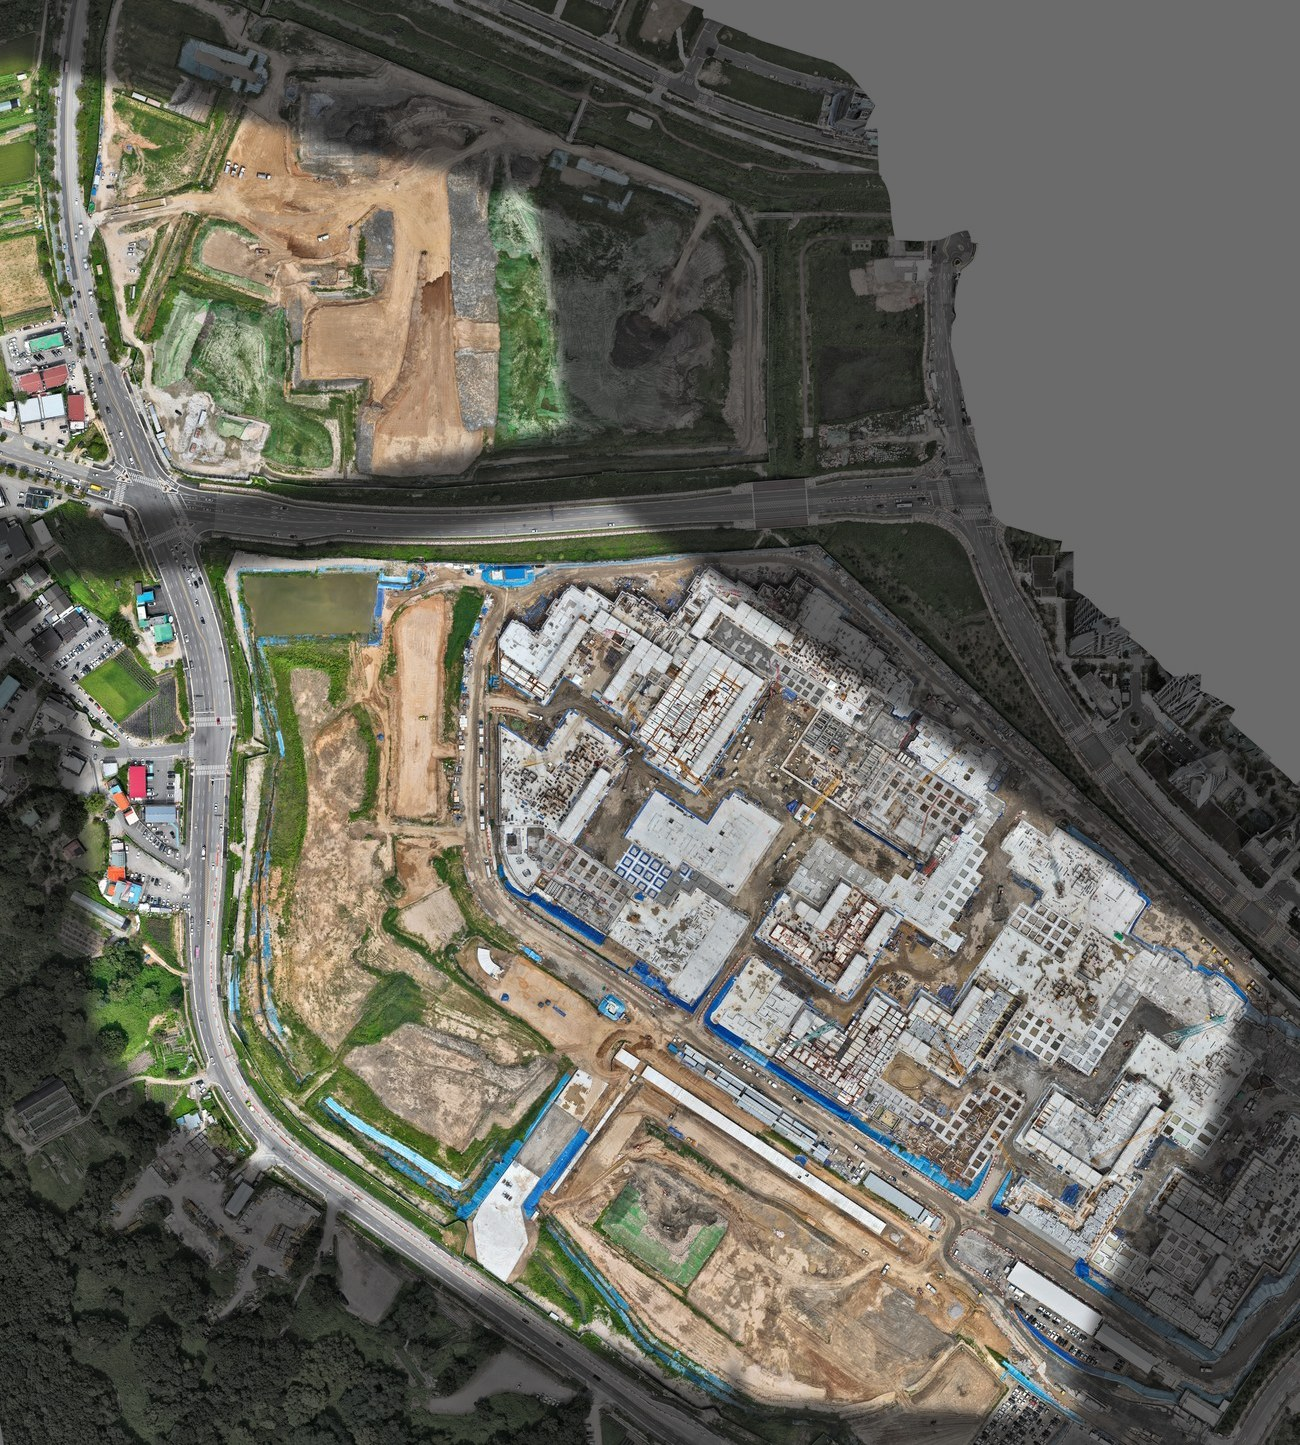
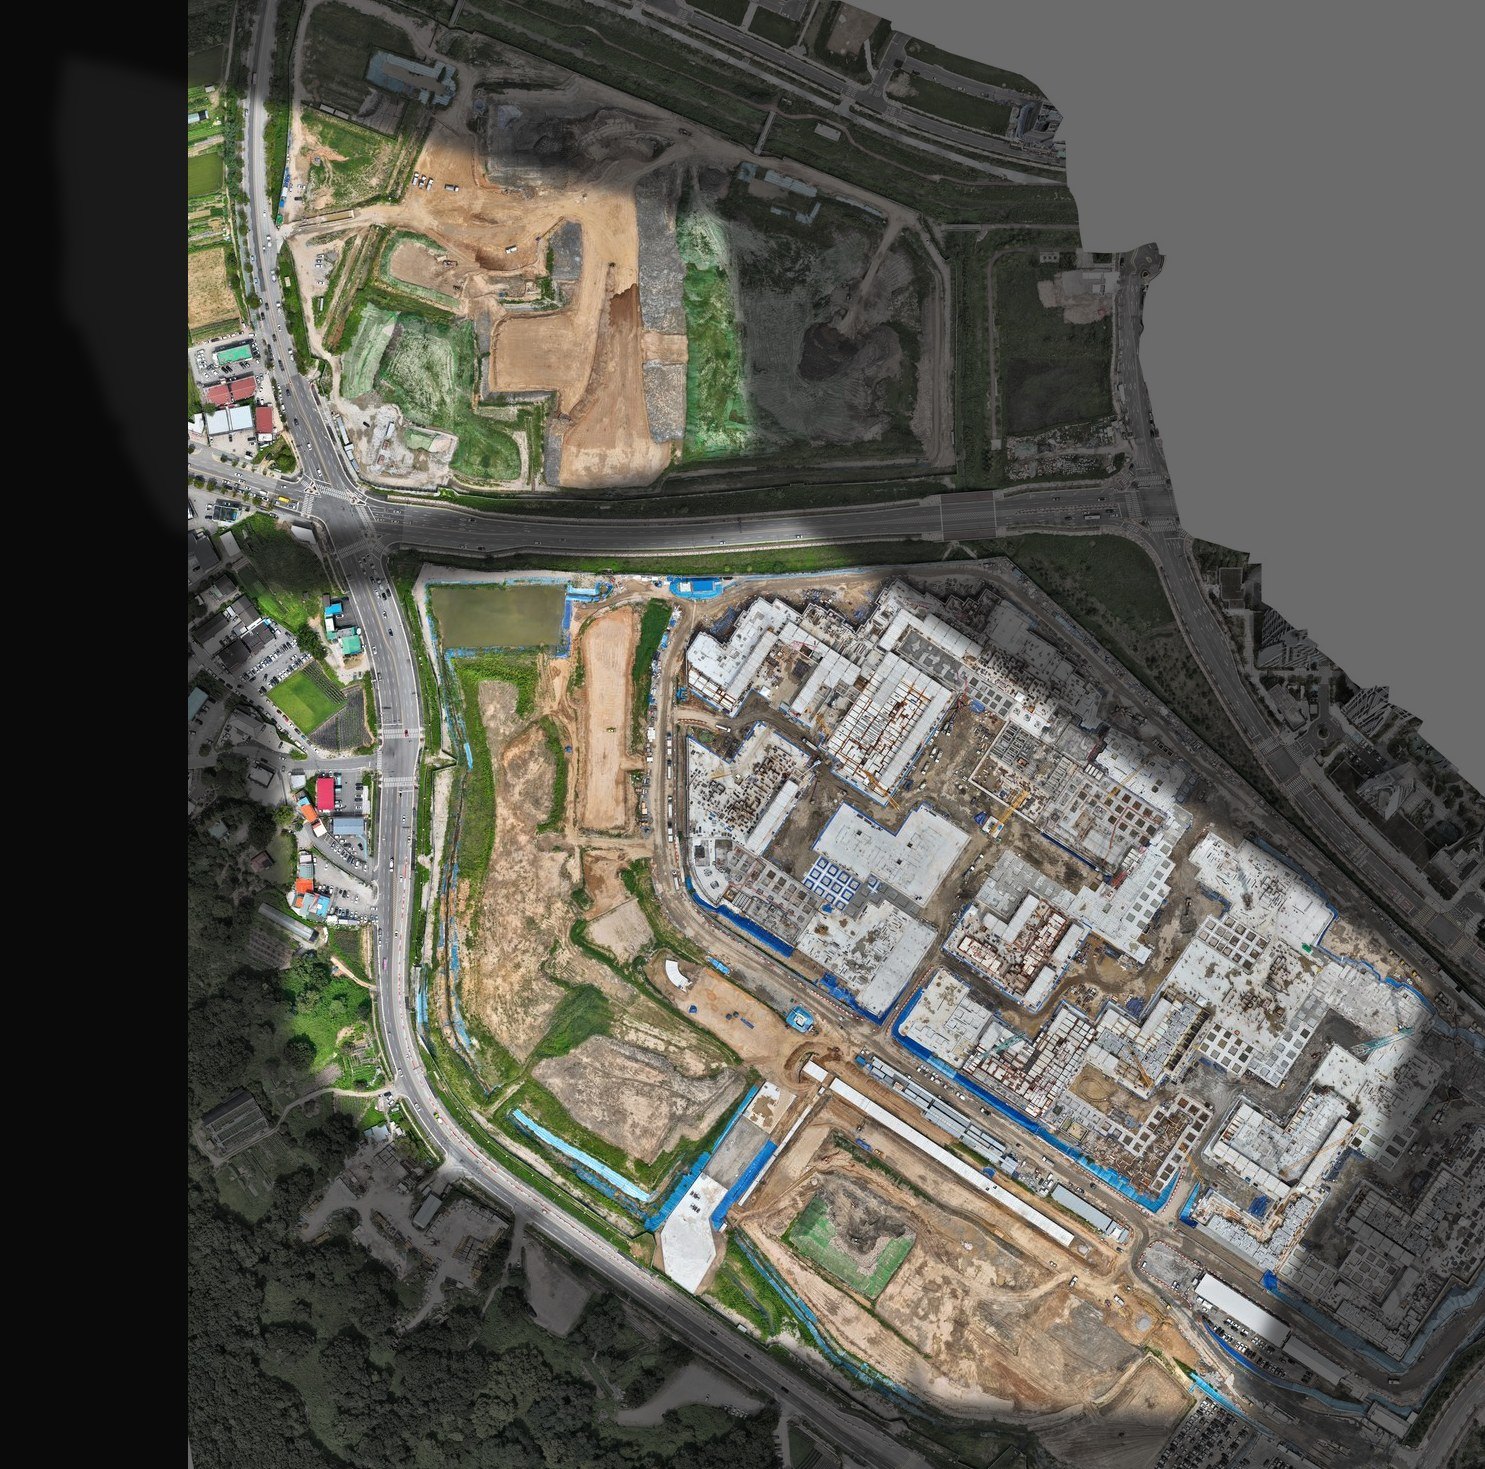
축척 보정(1.45 px/m) + 획지가 사진 밖으로 나가지 않도록 여백 추가

diff --git a/field.config.js b/field.config.js
@@ -48,42 +48,42 @@ window.FIELD = {
     // 획지 경계 — 설계도면 DXF 의 '블럭 테두리/시설선' 을 전경사진에 정렬해 뽑은 값입니다.
     // poly = 사진 가로·세로를 0~1 로 본 비율 좌표. at = 이름표 위치.
     zones: [
-    { name:"공동주택1", seg:"1구간", area:45328, at:[0.2834,0.221],
-      poly:[[0.1504,0.0747],[0.3635,0.125],[0.37,0.1319],[0.3836,0.1344],[0.3944,0.1325],[0.3971,0.1358],[0.411,0.134],[0.4163,0.1663],[0.3983,0.162],[0.4196,0.2981],[0.3617,0.311],[0.1853,0.3419],[0.1713,0.2337],[0.1642,0.219],[0.1508,0.1145],[0.1482,0.0817]] },
-    { name:"의료시설", seg:"1구간", area:39984, at:[-0.0098,0.212],
-      poly:[[-0.0342,0.3323],[-0.057,0.2894],[-0.0572,0.2758],[-0.0637,0.2756],[-0.0905,0.2077],[-0.0995,0.2081],[-0.106,0.1854],[-0.1028,0.148],[-0.1102,0.0699],[-0.106,0.0414],[-0.001,0.0662],[0.0203,0.075],[0.0652,0.1027],[0.0972,0.3529],[-0.0037,0.3566],[-0.0241,0.3461]] },
-    { name:"수변공원1", seg:"1구간", area:6155, at:[0.0344,0.0557],
-      poly:[[0.1067,0.0984],[0.0652,0.1027],[0.0203,0.075],[-0.001,0.0662],[-0.106,0.0414],[-0.1024,0.0187],[-0.0012,0.0414],[0.0,0.0454],[0.0051,0.0466],[0.0068,0.041],[0.0122,0.042],[0.1339,0.0707],[0.1316,0.0782],[0.125,0.0853]] },
-    { name:"준주거2", seg:"1구간", area:3853, at:[0.1015,0.3018],
-      poly:[[0.0857,0.2632],[0.1274,0.2589],[0.1364,0.2653],[0.1466,0.3455],[0.1443,0.3481],[0.0972,0.3529]] },
-    { name:"주차장1", seg:"1구간", area:3472, at:[0.0939,0.1918],
-      poly:[[0.1285,0.1638],[0.137,0.23],[0.1299,0.238],[0.0831,0.2429],[0.0737,0.1695]] },
-    { name:"준주거1", seg:"1구간", area:2395, at:[0.0869,0.1413],
-      poly:[[0.0671,0.1179],[0.1095,0.1135],[0.1233,0.1234],[0.1285,0.1638],[0.0737,0.1695]] },
-    { name:"공동주택2", seg:"2구간", area:156460, at:[0.5774,0.6057],
-      poly:[[0.8379,0.857],[0.2836,0.6109],[0.2712,0.6026],[0.2616,0.5918],[0.2533,0.571],[0.2258,0.3885],[0.4451,0.3518],[0.9461,0.6782],[0.8909,0.7794],[0.8582,0.82]] },
-    { name:"혁신의료연구단지", seg:"2구간", area:54486, at:[0.1445,0.6904],
-      poly:[[0.1869,0.5794],[0.2214,0.6433],[0.231,0.6514],[0.312,0.6911],[0.3229,0.6993],[0.3625,0.7169],[0.366,0.7266],[0.2955,0.844],[0.2704,0.8282],[0.1518,0.7715],[0.08,0.6736],[0.0727,0.5973],[0.0691,0.5928],[0.063,0.5454],[0.0644,0.536],[0.0814,0.5333],[0.0813,0.5302],[0.0644,0.5274],[0.0686,0.5254],[0.0574,0.4808],[0.0313,0.4246],[0.0312,0.4173],[0.0223,0.4186],[0.0136,0.4016],[0.0197,0.3988],[0.0837,0.4016],[0.1128,0.395],[0.153,0.3933],[0.1557,0.3953],[0.1615,0.4359],[0.1667,0.4478]] },
-    { name:"바이오융합복합단지", seg:"2구간", area:31207, at:[0.5587,0.889],
-      poly:[[0.3685,0.895],[0.3202,0.872],[0.3147,0.8551],[0.427,0.9081],[0.5039,0.7762],[0.7235,0.8737],[0.669,0.9731],[0.5774,0.9661],[0.5696,0.9525],[0.5677,0.9434],[0.5642,0.9416],[0.5588,0.9488],[0.5595,0.9634],[0.5554,0.9644],[0.5168,0.9535],[0.5175,0.9491],[0.4785,0.9359],[0.4729,0.9305],[0.4681,0.933],[0.4556,0.9316],[0.3757,0.8924]] },
-    { name:"근린공원2", seg:"2구간", area:14930, at:[0.6573,0.8036],
-      poly:[[0.4239,0.6732],[0.8379,0.857],[0.8625,0.8679],[0.8463,0.9008],[0.4643,0.7313],[0.4535,0.723],[0.4139,0.7054],[0.4104,0.6957]] },
-    { name:"초등학교", seg:"2구간", area:13000, at:[0.395,0.8105],
-      poly:[[0.4835,0.7671],[0.4068,0.8986],[0.3147,0.8551],[0.3882,0.7328],[0.399,0.7297]] },
-    { name:"근린공원1", seg:"2구간", area:12288, at:[0.3128,0.6529],
-      poly:[[0.1902,0.3961],[0.1945,0.3911],[0.2258,0.3885],[0.2533,0.571],[0.2616,0.5918],[0.2712,0.6026],[0.2836,0.6109],[0.4035,0.6642],[0.3938,0.6737],[0.3852,0.6882],[0.3743,0.6913],[0.2903,0.654],[0.2481,0.6323],[0.2397,0.625],[0.2139,0.576],[0.1938,0.4449],[0.1954,0.4321]] },
-    { name:"경관녹지3-2", seg:"2구간", area:6615, at:[0.934,0.7201],
-      poly:[[0.9274,0.7735],[0.9011,0.7611],[0.9461,0.6782],[0.6687,0.4975],[0.6816,0.4863],[0.9691,0.6744],[0.9617,0.6863],[0.9376,0.7456],[0.9313,0.7722]] },
-    { name:"근린공원3", seg:"2구간", area:4420, at:[0.7698,0.9575],
-      poly:[[0.8297,0.9643],[0.823,0.9786],[0.8156,0.978],[0.8144,0.9713],[0.8086,0.9688],[0.8005,0.9778],[0.7958,0.9781],[0.694,0.9732],[0.7185,0.9285],[0.7797,0.9557],[0.8049,0.9098],[0.8362,0.9237],[0.8204,0.9605]] },
-    { name:"경관녹지2", seg:"2구간", area:3322, at:[0.5614,0.4139],
-      poly:[[0.6631,0.4738],[0.6499,0.4852],[0.4451,0.3518],[0.4684,0.3479]] },
-    { name:"주차장2", seg:"2구간", area:3000, at:[0.7527,0.9259],
-      poly:[[0.7437,0.8826],[0.8049,0.9098],[0.7797,0.9557],[0.7185,0.9285]] },
-    { name:"경관녹지", seg:"2구간", area:2904, at:[0.4459,0.8349],
-      poly:[[0.5039,0.7762],[0.427,0.9081],[0.4068,0.8986],[0.4835,0.7671]] },
-    { name:"경관녹지4", seg:"2구간", area:2461, at:[0.8712,0.8414],
-      poly:[[0.921,0.7936],[0.9166,0.8033],[0.9048,0.816],[0.878,0.8392],[0.8625,0.8679],[0.8379,0.857],[0.8582,0.82],[0.8908,0.7795]] }
+    { name:"공동주택1", seg:"1구간", area:45328, at:[0.3753,0.2327],
+      poly:[[0.2612,0.0916],[0.444,0.1401],[0.4496,0.1467],[0.4612,0.1491],[0.4705,0.1473],[0.4728,0.1505],[0.4847,0.1488],[0.4893,0.1799],[0.4739,0.1758],[0.4921,0.307],[0.442,0.3196],[0.291,0.3491],[0.2791,0.2449],[0.273,0.2308],[0.2615,0.13],[0.2593,0.0984]] },
+    { name:"의료시설", seg:"1구간", area:39984, at:[0.1237,0.224],
+      poly:[[0.1115,0.3533],[0.0832,0.2987],[0.0831,0.2855],[0.0775,0.2853],[0.0545,0.2199],[0.0467,0.2203],[0.0412,0.1984],[0.0439,0.1624],[0.0376,0.087],[0.0412,0.0595],[0.1313,0.0835],[0.1496,0.0919],[0.188,0.1186],[0.2156,0.3598],[0.129,0.3634]] },
+    { name:"수변공원1", seg:"1구간", area:6155, at:[0.1616,0.0733],
+      poly:[[0.2237,0.1145],[0.188,0.1186],[0.1496,0.0919],[0.1313,0.0835],[0.0412,0.0595],[0.0443,0.0377],[0.1311,0.0596],[0.1322,0.0634],[0.1365,0.0646],[0.1379,0.0591],[0.1426,0.0601],[0.247,0.0878],[0.245,0.095],[0.2393,0.1018]] },
+    { name:"준주거2", seg:"1구간", area:3853, at:[0.2192,0.3106],
+      poly:[[0.2057,0.2734],[0.2415,0.2692],[0.2491,0.2754],[0.258,0.3527],[0.2559,0.3552],[0.2156,0.3598]] },
+    { name:"주차장1", seg:"1구간", area:3472, at:[0.2127,0.2045],
+      poly:[[0.2424,0.1775],[0.2497,0.2414],[0.2436,0.2491],[0.2035,0.2538],[0.1954,0.183]] },
+    { name:"준주거1", seg:"1구간", area:2395, at:[0.2067,0.1558],
+      poly:[[0.1897,0.1333],[0.226,0.1291],[0.2379,0.1386],[0.2424,0.1775],[0.1954,0.183]] },
+    { name:"공동주택2", seg:"2구간", area:156460, at:[0.6276,0.6035],
+      poly:[[0.8511,0.8458],[0.3755,0.6085],[0.3648,0.6006],[0.3566,0.5901],[0.3495,0.5701],[0.3259,0.3942],[0.514,0.3587],[0.9439,0.6734],[0.8965,0.771],[0.8695,0.8085]] },
+    { name:"혁신의료연구단지", seg:"2구간", area:54486, at:[0.2561,0.6852],
+      poly:[[0.2925,0.5782],[0.3221,0.6398],[0.3304,0.6476],[0.3999,0.6858],[0.4092,0.6938],[0.4432,0.7107],[0.4462,0.7201],[0.3857,0.8333],[0.3642,0.818],[0.2624,0.7634],[0.2008,0.669],[0.1945,0.5954],[0.1914,0.5911],[0.1862,0.5454],[0.1874,0.5364],[0.202,0.5337],[0.2019,0.5308],[0.1874,0.528],[0.191,0.5262],[0.1814,0.4831],[0.159,0.4289],[0.1589,0.422],[0.1513,0.4232],[0.1428,0.4084],[0.1446,0.4059],[0.1491,0.4041],[0.2039,0.4068],[0.2289,0.4004],[0.2634,0.3988],[0.2657,0.4007],[0.2707,0.4398],[0.2752,0.4513]] },
+    { name:"바이오융합복합단지", seg:"2구간", area:31207, at:[0.6115,0.8767],
+      poly:[[0.4483,0.8824],[0.4069,0.8602],[0.4022,0.844],[0.4985,0.8951],[0.5645,0.7679],[0.7529,0.8618],[0.7061,0.9577],[0.6276,0.9509],[0.6192,0.9291],[0.6163,0.9274],[0.6116,0.9343],[0.6122,0.9483],[0.6087,0.9493],[0.5756,0.9388],[0.5761,0.9346],[0.5427,0.9219],[0.5379,0.9166],[0.5338,0.9191],[0.5231,0.9177],[0.4545,0.8799]] },
+    { name:"근린공원2", seg:"2구간", area:14930, at:[0.6961,0.7943],
+      poly:[[0.4958,0.6686],[0.8722,0.8563],[0.8582,0.8879],[0.5306,0.7246],[0.5212,0.7166],[0.4872,0.6997],[0.4843,0.6903]] },
+    { name:"초등학교", seg:"2구간", area:13000, at:[0.4711,0.801],
+      poly:[[0.547,0.7592],[0.4812,0.8859],[0.4022,0.844],[0.4652,0.726],[0.4745,0.723]] },
+    { name:"근린공원1", seg:"2구간", area:12288, at:[0.4005,0.649],
+      poly:[[0.2954,0.4015],[0.299,0.3967],[0.3259,0.3942],[0.3495,0.5701],[0.3566,0.5901],[0.3648,0.6006],[0.3755,0.6085],[0.4783,0.6599],[0.4701,0.6691],[0.4626,0.683],[0.4533,0.6861],[0.3813,0.6501],[0.3451,0.6291],[0.3378,0.6221],[0.3157,0.5749],[0.2984,0.4485],[0.2998,0.4362]] },
+    { name:"경관녹지3-2", seg:"2구간", area:6615, at:[0.9335,0.7137],
+      poly:[[0.9279,0.7653],[0.9053,0.7533],[0.9439,0.6734],[0.7059,0.4992],[0.7169,0.4884],[0.9636,0.6697],[0.9572,0.6812],[0.9366,0.7384],[0.9312,0.764]] },
+    { name:"근린공원3", seg:"2구간", area:4420, at:[0.7926,0.9427],
+      poly:[[0.844,0.9492],[0.8382,0.963],[0.8319,0.9624],[0.8309,0.9559],[0.8259,0.9536],[0.819,0.9623],[0.8149,0.9625],[0.7276,0.9578],[0.7486,0.9147],[0.8012,0.9409],[0.8227,0.8967],[0.8496,0.9101],[0.8361,0.9455]] },
+    { name:"경관녹지2", seg:"2구간", area:3322, at:[0.6138,0.4187],
+      poly:[[0.6898,0.4875],[0.6827,0.4823],[0.514,0.3587],[0.534,0.355],[0.701,0.4763]] },
+    { name:"주차장2", seg:"2구간", area:3000, at:[0.7779,0.9121],
+      poly:[[0.7702,0.8705],[0.8227,0.8967],[0.8012,0.9409],[0.7486,0.9147]] },
+    { name:"경관녹지", seg:"2구간", area:2904, at:[0.5147,0.8245],
+      poly:[[0.5645,0.7679],[0.4985,0.8951],[0.4812,0.8859],[0.547,0.7592]] },
+    { name:"경관녹지4", seg:"2구간", area:2461, at:[0.8797,0.8307],
+      poly:[[0.9224,0.7847],[0.9186,0.794],[0.9085,0.8062],[0.8855,0.8286],[0.8722,0.8563],[0.8511,0.8458],[0.8695,0.8085],[0.8965,0.771]] }
     ]
   },
 
